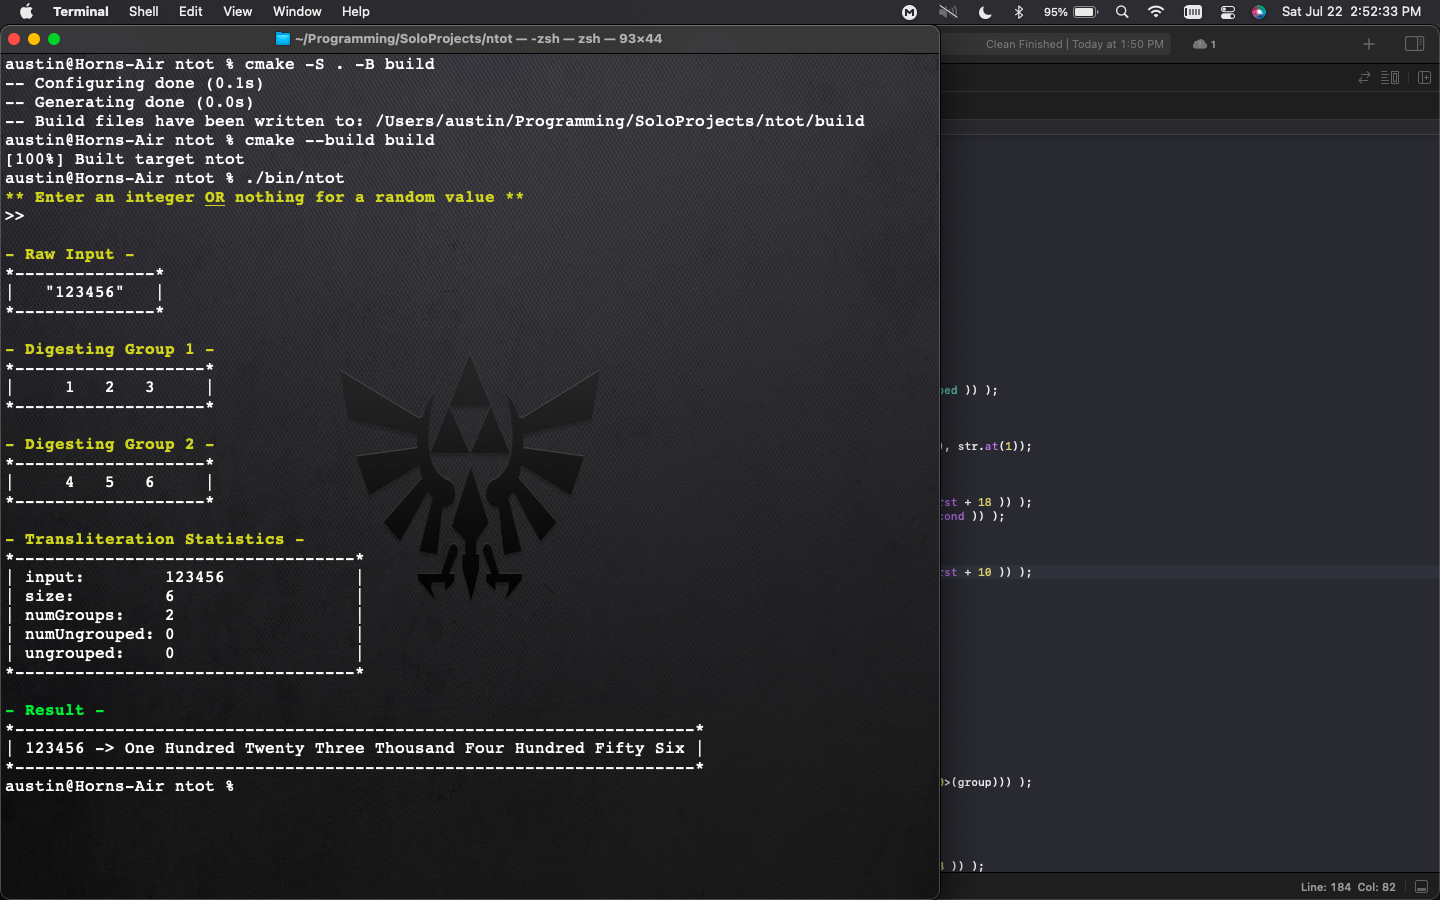
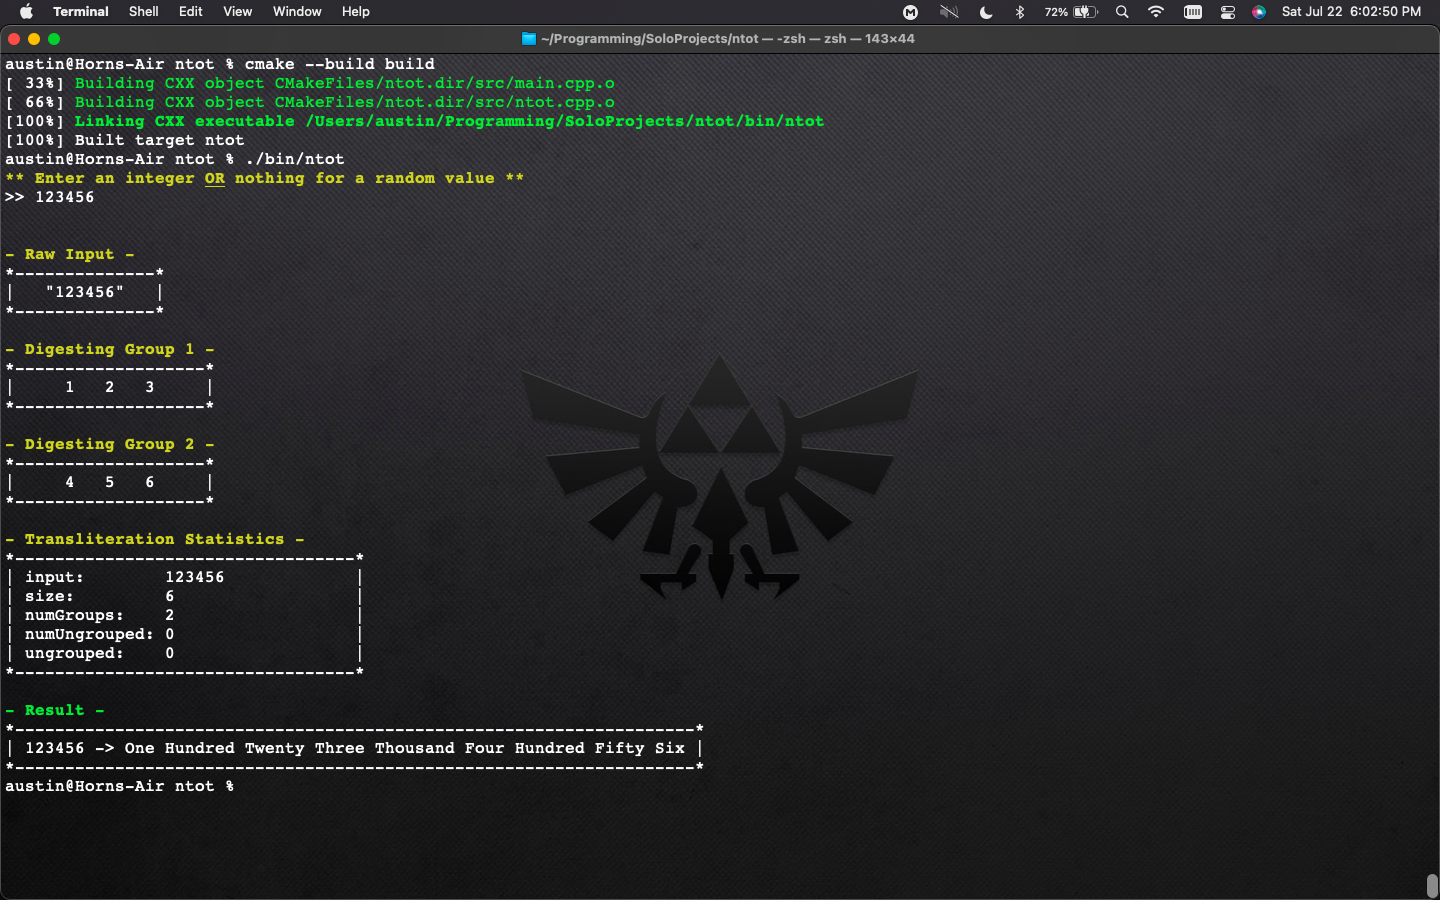
Bugfixes and cleanup
Fix logic for Result's bounding box width calculation

diff --git a/src/ntot.cpp b/src/ntot.cpp
@@ -36,7 +36,7 @@ const std::string& ntot::getInput() const
 
 void ntot::print()
 {
-    unsigned spacing = static_cast<unsigned>(calcSpacing() + m_input.size() - 2);
+    auto spacing = static_cast<unsigned>(calcSpacing() + m_input.size() + 6 + m_strVect.size());
     
     std::cout << '\n' << BOLDGREEN << "- Result -" << RESET << std::endl;
     std::cout << '*' << std::setw(spacing) << std::setfill('-') << '*' << std::endl;
@@ -88,22 +88,10 @@ bool ntot::hasOnlyDigits()
 unsigned int ntot::calcSpacing()
 {
     unsigned int chCount = 0;
-    unsigned int wdCount = 0;
     // Determine # of characters in the entire result string
     for (auto s : m_strVect)
-    {
         chCount += s.size();
-        wdCount++;
-    }
-    
-    // Configure left/right padding with respect to word count
-    if (wdCount < 2)
-        chCount += (2 * m_strVect.size()) + 1;
-    else if (wdCount % 2 == 0) // Even
-        chCount += (2 * m_strVect.size()) - 2;
-    else
-        chCount += (2 * m_strVect.size()) - 1;
-    
+
     return chCount;
 }
 

diff --git a/src/main.hpp b/src/main.hpp
@@ -28,10 +28,10 @@
 
 const std::string promptUserForInputValue()
 {
-    std::string input = "91011";
+    std::string input = "";
     std::cout << BOLDYELLOW << "** Enter an integer " << UNDERLINE << "OR" << RESET << BOLDYELLOW << " nothing for a random value **" << RESET << std::endl;
     std::cout << ">> ";
-    //std::getline(std::cin, input);
+    std::getline(std::cin, input);
     if (!input.size())
         input = std::to_string(random_ranged_ulong(0, 999999));
     return input;
